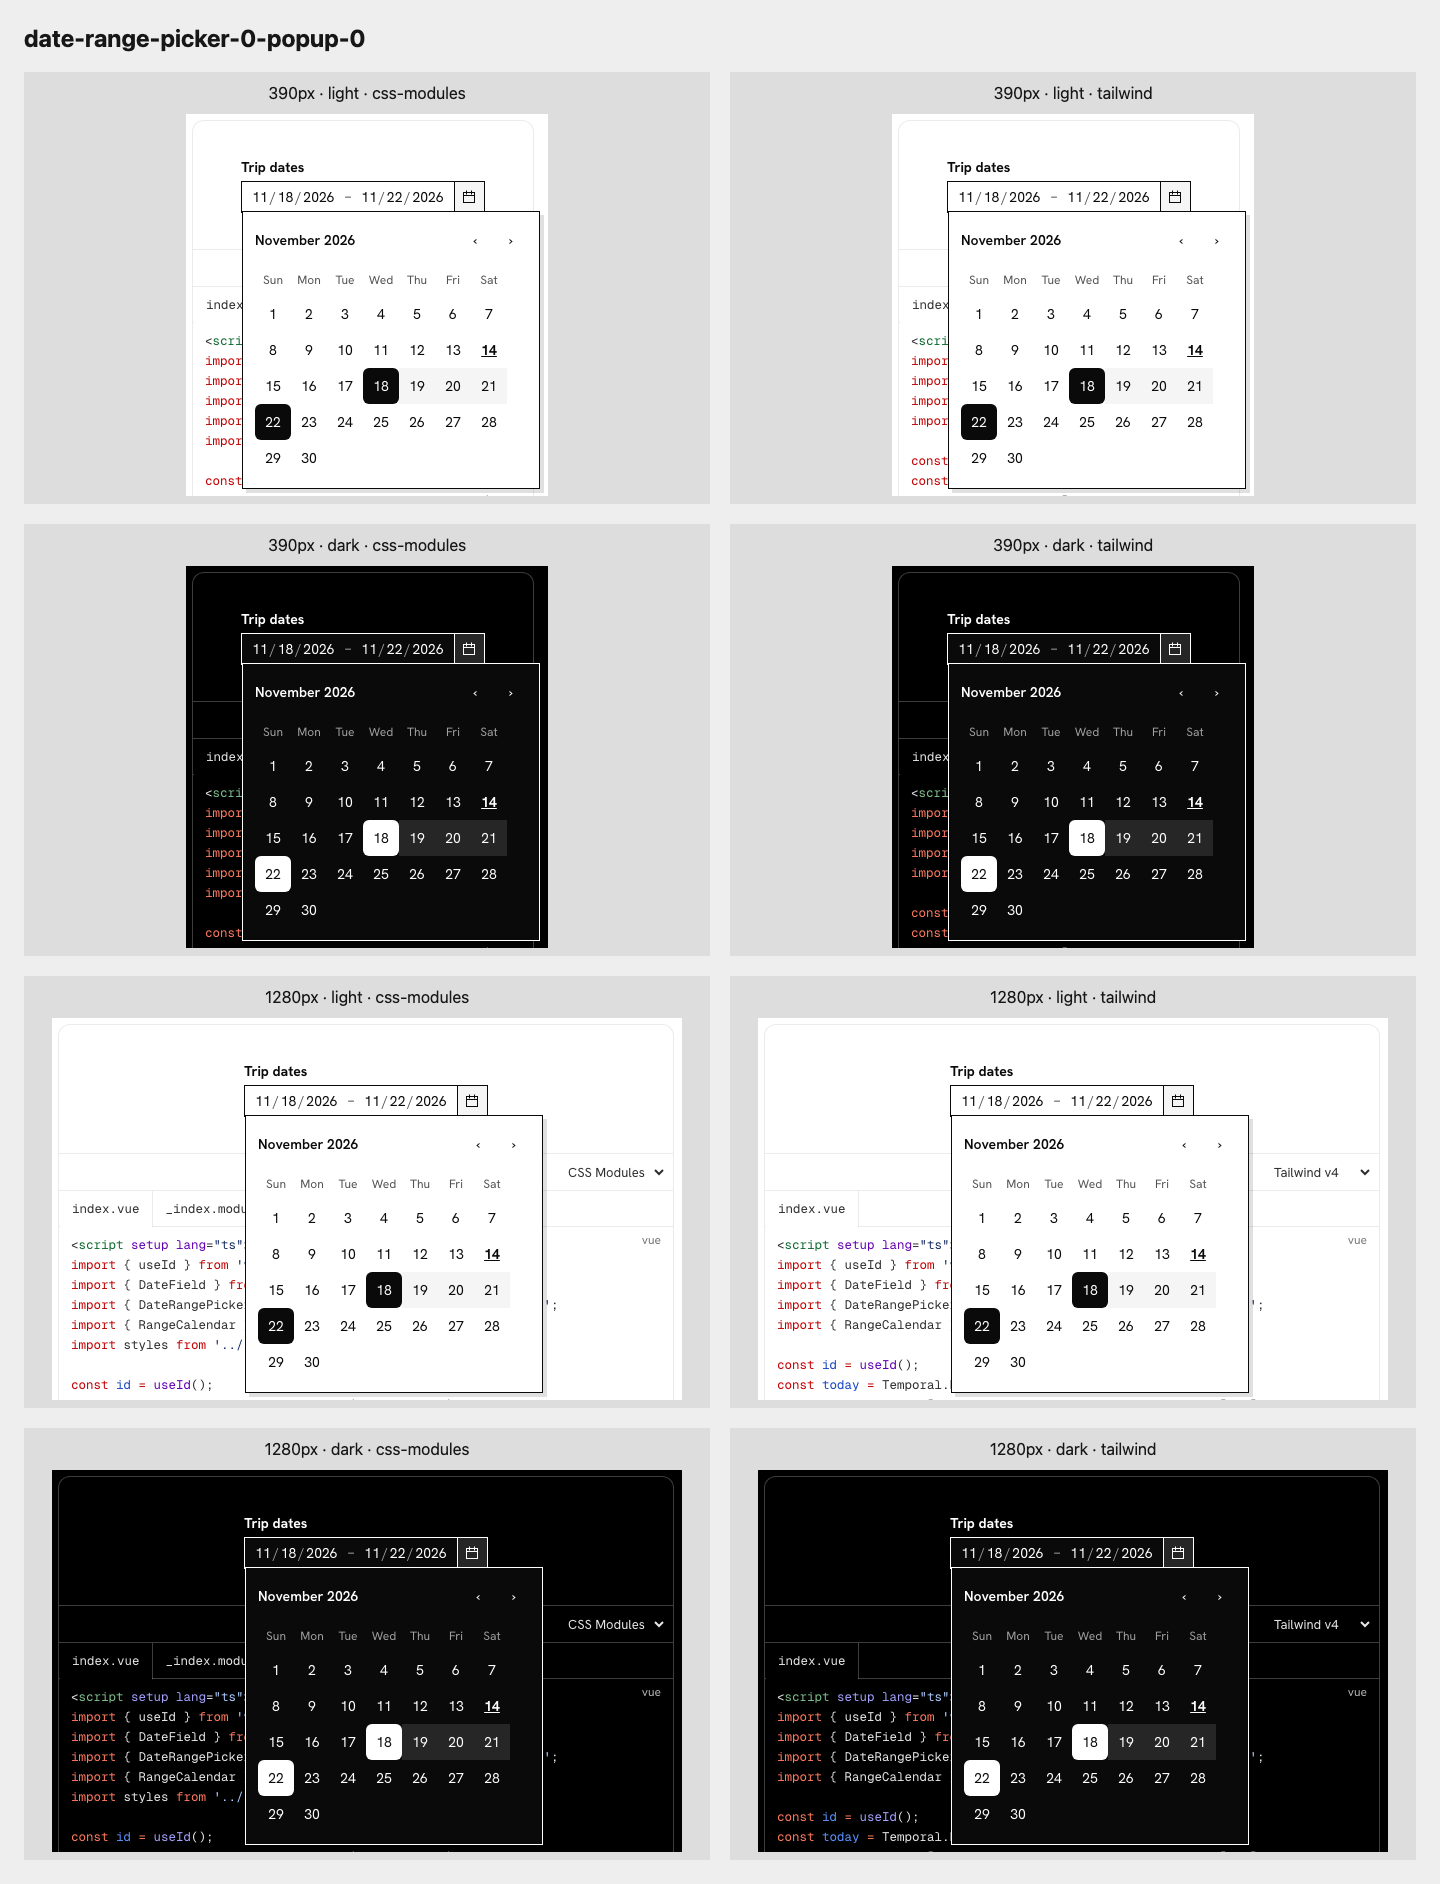
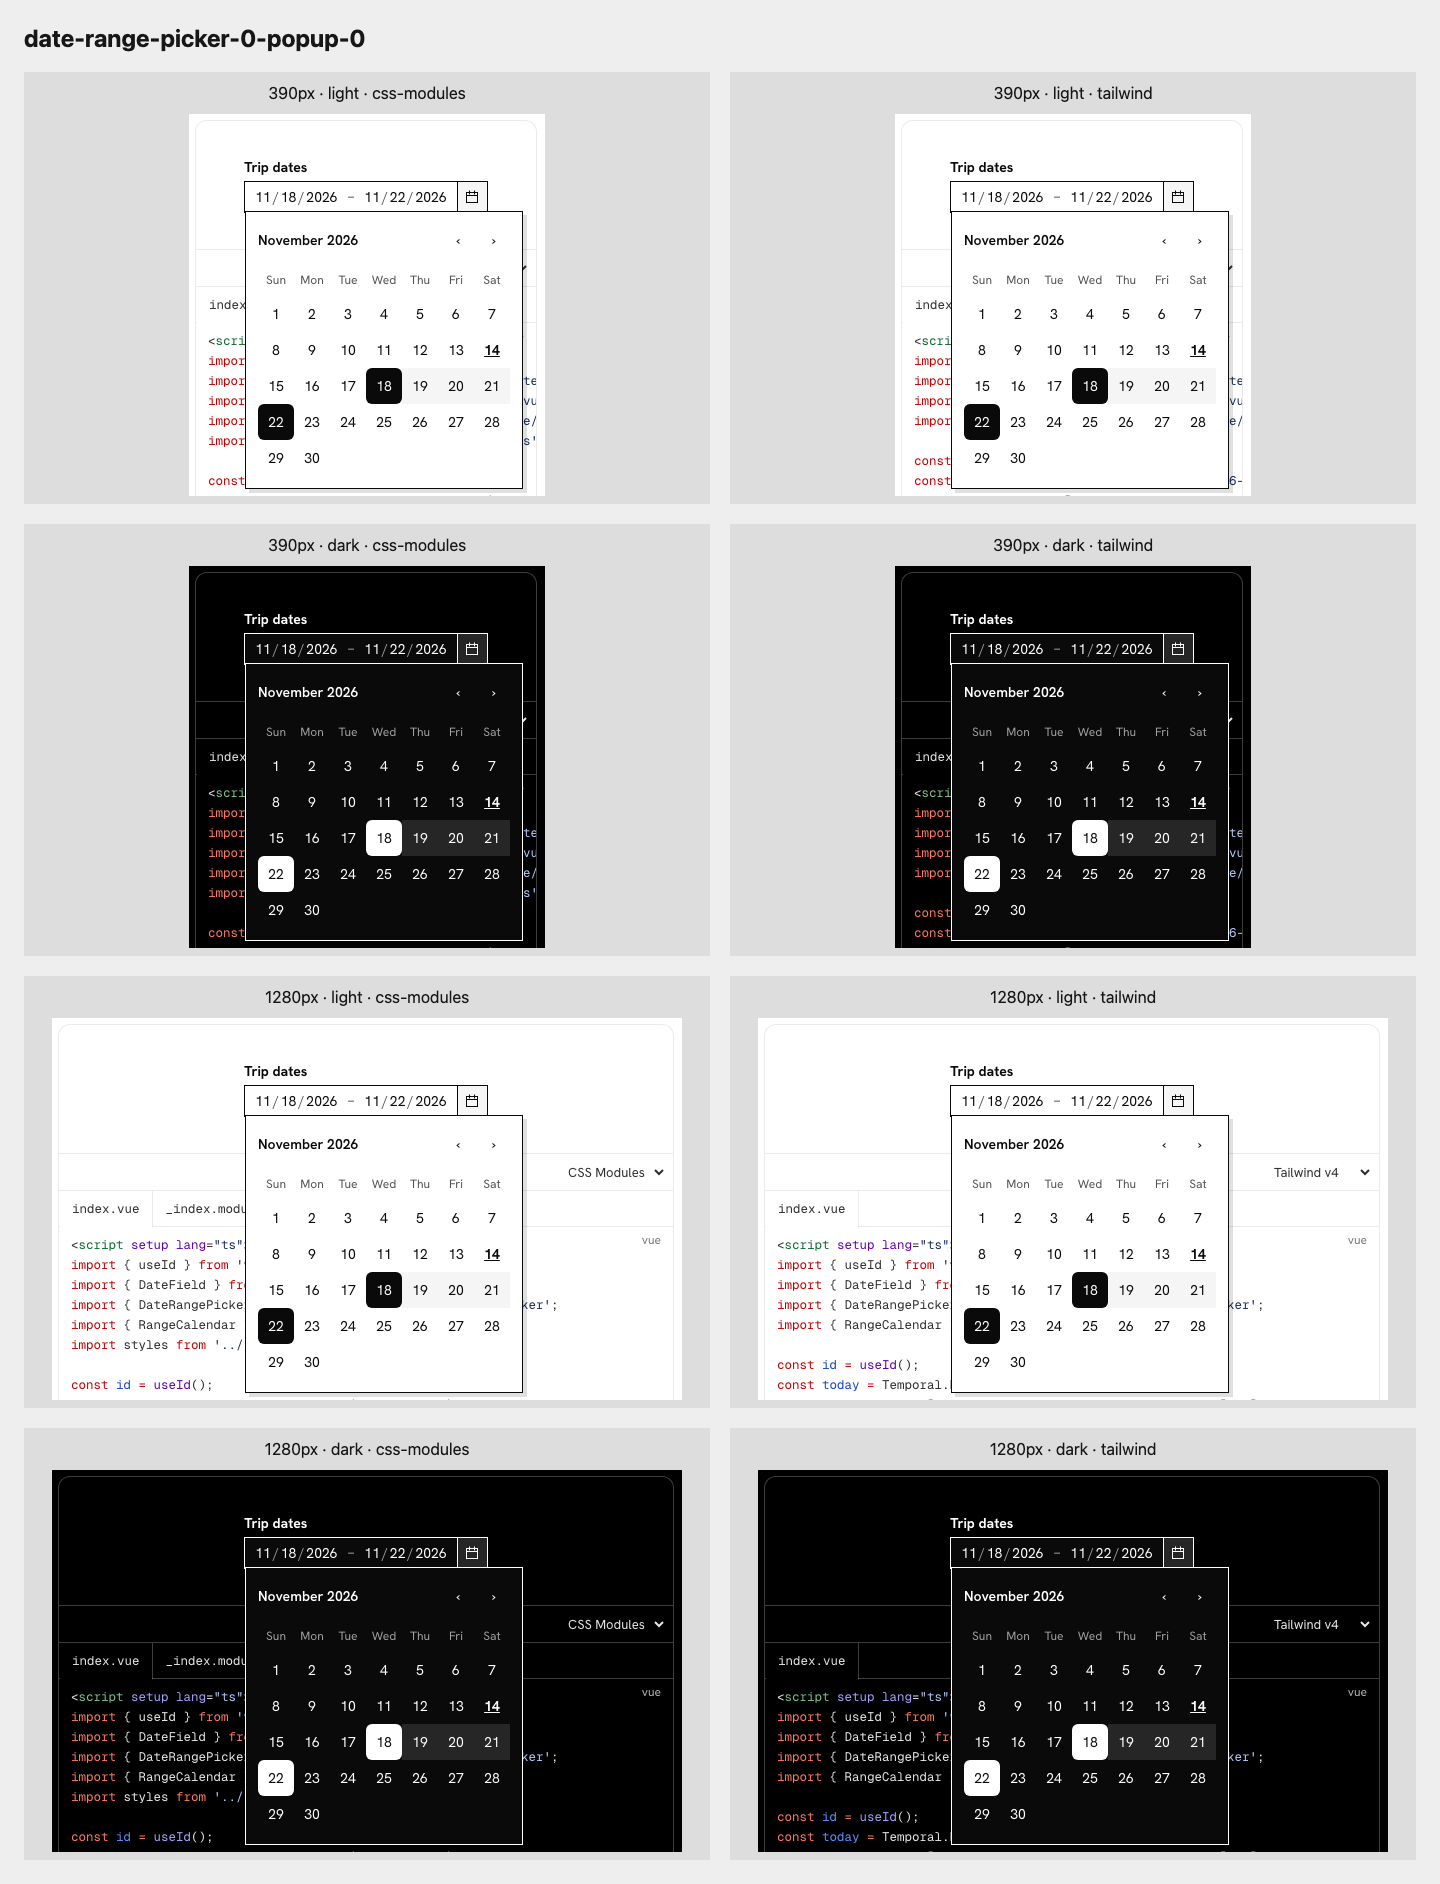
docs(date-range-picker): give the calendar the width of its grid
The grid of the popup has the width of its day buttons, and the calendar kept a width of 17rem.
The grid thus had a blank of 20 pixels at its right side. The calendar now has no width.

A case fails when a grid of a range calendar is not as wide as its month. The layout cases find
their demos by the parts in the source, so a new demo needs no change in the test.

diff --git a/packages/vue/test/demos.ownVariants.test.tsx b/packages/vue/test/demos.ownVariants.test.tsx
@@ -32,6 +32,12 @@ const demos = [
     }),
   ),
 ].toSorted();
+// The source of a demo says which parts it has, so a case for one part finds its demos by itself.
+const sources = import.meta.glob<string>('../../../docs/demos/*/*/css-modules/index.vue', {
+  query: '?raw',
+  import: 'default',
+  eager: true,
+});
 
 type Variant = 'css-modules' | 'tailwind';
 const VARIANTS: Variant[] = ['css-modules', 'tailwind'];
@@ -315,6 +321,39 @@ describe.each(demos)('%s', (demo) => {
     }
   }
 
+  function hasPart(part: string) {
+    return sources[`../../../docs/demos/${demo}/css-modules/index.vue`]!.includes(`<${part}`);
+  }
+
+  /** Opens the popup of a demo that has one. */
+  async function openPopupOf(frame: Element) {
+    const trigger = frame.querySelector<HTMLElement>('[aria-haspopup]');
+    if (trigger) {
+      await fireEvent.click(trigger);
+      await waitFor(() => {
+        expect(screen.getByRole('dialog')).toBeInTheDocument();
+      });
+    }
+  }
+
+  /** Runs `check` on each variant of the demo, in a page that is `width` pixels wide. */
+  async function inEachVariantAt(
+    width: number,
+    check: (frame: HTMLElement, variant: Variant) => Promise<void> | void,
+  ) {
+    const viewport = { width: window.innerWidth, height: window.innerHeight };
+    await page.viewport(width, 900);
+    try {
+      for (const variant of VARIANTS) {
+        const { frame, unmount } = await mount(variant, false);
+        await check(frame, variant);
+        unmount();
+      }
+    } finally {
+      await page.viewport(viewport.width, viewport.height);
+    }
+  }
+
   // The site shows the fallback font until its own font loads, and each has its own widths.
   // The third row has the letter spacing of WCAG 1.4.12, which a reader can set.
   it.each([
@@ -400,100 +439,80 @@ describe.each(demos)('%s', (demo) => {
     });
   }
 
+  if (hasPart('RangeCalendar.DayButton')) {
+    // A grid that is narrower than its month leaves a blank at one side of the days.
+    it.each(VARIANTS)('each grid is as wide as its month: %s', async (variant) => {
+      const { frame } = await mount(variant, false);
+      await openPopupOf(frame);
+      const grids = [...document.querySelectorAll('table')];
+      expect(grids).not.toHaveLength(0);
+      for (const grid of grids) {
+        expect(grid.getBoundingClientRect().width).toBeCloseTo(
+          grid.parentElement!.getBoundingClientRect().width,
+          1,
+        );
+      }
+    });
+  }
+
   describe.each(['light', 'dark'] as const)('%s', (theme) => {
     if (demo === 'date-picker/date-time') {
       it.each([390, 1280])('the date is left of the time at %i px', async (width) => {
-        const viewport = { width: window.innerWidth, height: window.innerHeight };
-        await page.viewport(width, 900);
         document.documentElement.classList.toggle('dark', theme === 'dark');
-        try {
-          for (const variant of VARIANTS) {
-            const { frame, unmount } = await mount(variant, false);
-            const date = within(frame).getByRole('group', { name: 'Date' }).getBoundingClientRect();
-            const time = within(frame).getByRole('group', { name: 'Time' }).getBoundingClientRect();
-            expect(date.top, variant).toBe(time.top);
-            expect(date.right, variant).toBeLessThan(time.left);
-            unmount();
-          }
-        } finally {
-          await page.viewport(viewport.width, viewport.height);
-        }
+        await inEachVariantAt(width, (frame, variant) => {
+          const date = within(frame).getByRole('group', { name: 'Date' }).getBoundingClientRect();
+          const time = within(frame).getByRole('group', { name: 'Time' }).getBoundingClientRect();
+          expect(date.top, variant).toBe(time.top);
+          expect(date.right, variant).toBeLessThan(time.left);
+        });
       });
     }
 
-    if (demo === 'time-picker/clock' || demo === 'time-clock/hero' || demo === 'time-clock/step') {
+    if (hasPart('TimeClock.DayPeriod')) {
       it.each([390, 1280])('each day period has a whole border at %i px', async (width) => {
-        const viewport = { width: window.innerWidth, height: window.innerHeight };
-        await page.viewport(width, 900);
         document.documentElement.classList.toggle('dark', theme === 'dark');
-        try {
-          for (const variant of VARIANTS) {
-            const { frame, unmount } = await mount(variant, false);
-            if (demo === 'time-picker/clock') {
-              await fireEvent.click(frame.querySelector<HTMLElement>('[aria-haspopup]')!);
-              await waitFor(() => {
-                expect(screen.getByRole('dialog')).toBeInTheDocument();
-              });
-            }
-            const buttons = ['AM', 'PM'].map((name) => screen.getByRole('button', { name }));
-            for (const selected of buttons) {
-              await fireEvent.click(selected);
-              expect(selected).toHaveAttribute('aria-pressed', 'true');
-              for (const button of buttons) {
-                const style = getComputedStyle(button);
-                for (const side of ['top', 'right', 'bottom', 'left']) {
-                  expect(
-                    parseFloat(style.getPropertyValue(`border-${side}-width`)),
-                    `${variant}: ${button.textContent} ${side} border`,
-                  ).toBeGreaterThan(0);
-                }
+        await inEachVariantAt(width, async (frame, variant) => {
+          await openPopupOf(frame);
+          const buttons = ['AM', 'PM'].map((name) => screen.getByRole('button', { name }));
+          for (const selected of buttons) {
+            await fireEvent.click(selected);
+            expect(selected).toHaveAttribute('aria-pressed', 'true');
+            for (const button of buttons) {
+              const style = getComputedStyle(button);
+              for (const side of ['top', 'right', 'bottom', 'left']) {
+                expect(
+                  parseFloat(style.getPropertyValue(`border-${side}-width`)),
+                  `${variant}: ${button.textContent} ${side} border`,
+                ).toBeGreaterThan(0);
               }
             }
-            unmount();
           }
-        } finally {
-          await page.viewport(viewport.width, viewport.height);
-        }
+        });
       });
     }
 
-    if (demo.startsWith('range-calendar/') || demo === 'date-range-picker/hero') {
+    if (hasPart('RangeCalendar.DayButton')) {
       it.each([390, 1280])('the selected range has no gaps at %i px', async (width) => {
-        const viewport = { width: window.innerWidth, height: window.innerHeight };
-        await page.viewport(width, 900);
         document.documentElement.classList.toggle('dark', theme === 'dark');
-        try {
-          for (const variant of VARIANTS) {
-            const { frame, unmount } = await mount(variant, false);
-            if (demo === 'date-range-picker/hero') {
-              await fireEvent.click(frame.querySelector<HTMLElement>('[aria-haspopup]')!);
-              await waitFor(() => {
-                expect(screen.getByRole('dialog')).toBeInTheDocument();
-              });
-            }
-            let pairs = 0;
-            for (const row of document.querySelectorAll('tr')) {
-              const middle = [...row.querySelectorAll('button[data-range-middle]')];
-              for (const [index, button] of middle.entries()) {
-                const next = middle[index + 1];
-                if (!next) {
-                  continue;
-                }
-                pairs += 1;
-                expect(
-                  Math.abs(
-                    button.getBoundingClientRect().right - next.getBoundingClientRect().left,
-                  ),
-                  `${variant}: ${button.textContent} to ${next.textContent}`,
-                ).toBeLessThanOrEqual(0.1);
+        await inEachVariantAt(width, async (frame, variant) => {
+          await openPopupOf(frame);
+          let pairs = 0;
+          for (const row of document.querySelectorAll('tr')) {
+            const middle = [...row.querySelectorAll('button[data-range-middle]')];
+            for (const [index, button] of middle.entries()) {
+              const next = middle[index + 1];
+              if (!next) {
+                continue;
               }
+              pairs += 1;
+              expect(
+                Math.abs(button.getBoundingClientRect().right - next.getBoundingClientRect().left),
+                `${variant}: ${button.textContent} to ${next.textContent}`,
+              ).toBeLessThanOrEqual(0.1);
             }
-            expect(pairs).toBeGreaterThan(0);
-            unmount();
           }
-        } finally {
-          await page.viewport(viewport.width, viewport.height);
-        }
+          expect(pairs).toBeGreaterThan(0);
+        });
       });
     }
 

diff --git a/docs/demos/date-range-picker/hero/tailwind/index.vue b/docs/demos/date-range-picker/hero/tailwind/index.vue
@@ -79,7 +79,7 @@ const inputClassName =
             aria-label="Choose trip dates"
             class="box-border flex origin-[var(--transform-origin)] flex-col gap-3 border border-neutral-950 bg-white p-3 text-neutral-950 shadow-[0.25rem_0.25rem_0] shadow-black/12 outline-none transition-[scale,opacity] duration-100 ease-out data-ending-style:scale-[0.98] data-ending-style:opacity-0 data-starting-style:scale-[0.98] data-starting-style:opacity-0 dark:border-white dark:bg-neutral-950 dark:text-white dark:shadow-none"
           >
-            <DateRangePicker.Calendar :today="today" class="relative box-border w-68 text-sm">
+            <DateRangePicker.Calendar :today="today" class="relative box-border text-sm">
               <div class="absolute top-0 right-0 flex gap-1">
                 <RangeCalendar.PreviousButton :class="buttonClassName">
                   &lsaquo;

diff --git a/docs/demos/date-range-picker/_index.module.css b/docs/demos/date-range-picker/_index.module.css
@@ -210,7 +210,6 @@
 .Calendar {
   position: relative;
   box-sizing: border-box;
-  width: 17rem;
   font-size: 0.875rem;
   line-height: 1.25rem;
 }

diff --git a/CONTRIBUTING.md b/CONTRIBUTING.md
@@ -2117,7 +2117,9 @@ A family that Base UI documents in `docs/src/app/(docs)/react/utils/`, such as `
 - A demo that hides a part at rest needs a step in `SHOW_EACH_PART` in the test. The step shows the part.
 - The test skips the duration and curve of a transition whose `transition-property` is `none`.
 - Give each date or time segment `field-sizing: content`. Use `field-sizing-content` in the Tailwind variant. An `<input>` cuts text that is wider than its box. The width that the `size` attribute gives is too narrow for `AM`, `PM` and `mm` in some engines and fonts.
-- The day period tests check all four borders with AM and PM selected. The range tests check that adjacent middle buttons touch. Both tests cover each variant and theme at 390 and 1280 pixels.
+- Two buttons with a gap between them each keep their whole border. For a demo with a `TimeClock.DayPeriod` part, the test has a case that fails when a day period button has a side with no border.
+- Do not give a width to the grid of a range calendar or to its calendar. The day buttons then give the grid its width, so the days of a range touch and the grid fills its month. For a demo with a `RangeCalendar.DayButton` part, the test has a case that fails when two middle days of a row do not touch. It has a second case that fails when a grid is not as wide as its month.
+- The test finds the demos of these cases by the name of the part in the source of the CSS-module demo. The day period case and the range case run in each variant and theme, in a page 390 pixels wide and in a page 1280 pixels wide.
 - The segment case of the test fails when the text of a segment is wider than its box. It measures each demo as mounted, with one-digit and two-digit hours, with each day period, and empty. It has a row for the font of the site, a row for the fallback font and a row for the letter spacing of WCAG 1.4.12. It loads the font of the site from `docs/node_modules`.
 - On the page, a demo is inside `<DemoFrame>`. The frame has the class `vp-raw`, so the styles of the site do not reach the demo. Show the Vue file and the style sheet directly below it in one `code-group`. The frame and the code group then make one card.
 - A demo that Base UI has in two variants gives its Tailwind component to the slot `#tailwind` of the frame. The import name is the name of the CSS-module import and `Tailwind`, as `DemoButtonHeroTailwind`. The page shows the source of each variant in its own `<DemoSource variant="css-modules">` or `<DemoSource variant="tailwind">`, with one `code-group` in it. `<DemoSource>` shows only the source of the chosen variant. `docs/components/button.md` is the model.
@@ -2142,7 +2144,7 @@ A family that Base UI documents in `docs/src/app/(docs)/react/utils/`, such as `
 - The popup case finds a trigger by `aria-haspopup`, or by the attribute of a Tooltip trigger or of a Navigation Menu trigger. `unmarkedTriggers` in that file has a rule for each other trigger. Add a rule for a new trigger that has no such attribute. Do not add an attribute to the demo.
 - The popup case turns off the axe rule `aria-hidden-focus`. The case thus does not see a demo that writes `aria-hidden` on a control inside a popup.
 - The popup case accepts three other reports of axe, each for one kind of element and not for the whole rule. `ACCEPTED` in that file has them. A row is for a state that a part sets on purpose. Do not add a row for a fault of a demo. Correct the demo.
-- For demos with no `upstream.json`, the popup case compares each option's `scrollWidth` and `clientWidth`. It also checks that the option text fits inside the option and the visible width of the list. Demos with an `upstream.json` keep the upstream sheets, so this check excludes their lists.
+- For a demo of a family with no `upstream.json`, the popup case fails when an option of a list cuts its text. It compares the `scrollWidth` of each option with its `clientWidth`. It also compares the box of the text with the box of the option and with the part of the list that shows. A family with an `upstream.json` keeps the style sheets of Base UI, so the check leaves out its lists.
 - The popup case does not open a popup whose trigger has no attribute that the case knows and no rule in `unmarkedTriggers`, and it does not fail for such a popup. It runs in the light theme, as the mount case does.
 
 ### Thanks page
